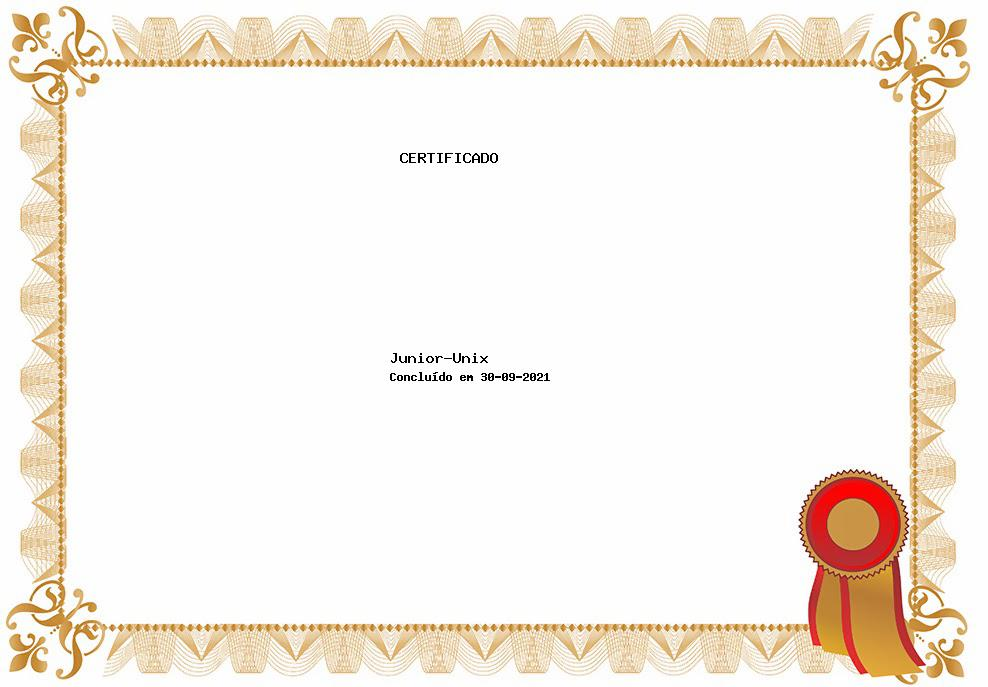
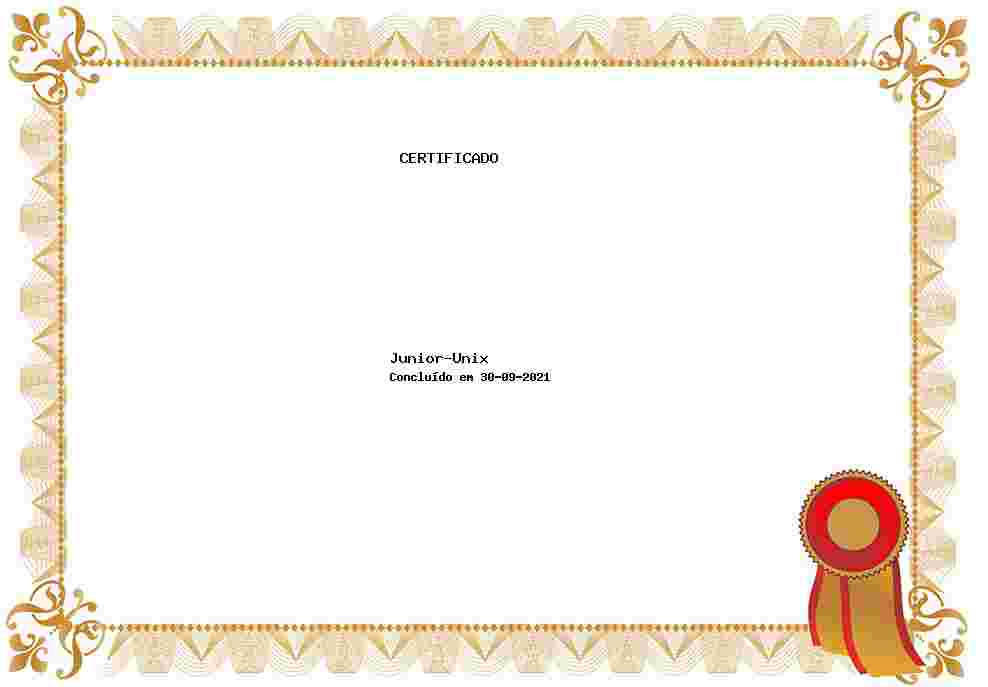
GD bibliotek, certificado, exemplo 02, diminuir qualidade.

Changed region(s): [[0.0, 0.0, 1.0, 1.0], [0.3947, 0.5197, 0.5466, 0.5808], [0.3947, 0.214, 0.5162, 0.2445]]

diff --git a/GD/exemplo-02.php b/GD/exemplo-02.php
@@ -11,7 +11,7 @@ imagestring($image, 3, 390, 370, utf8_decode("Concluído em ") . date("d-m-Y"), 
 
 header("Content-type: image/jpeg");
 imagejpeg($image); // em tela.
-imagejpeg($image, "certificado-".date("Y-m-d"). " .jpg"); //em documento.
+imagejpeg($image, "certificado-".date("Y-m-d"). " .jpg", 10); //em documento. o 10 no final, diminuiu a qualidade também.
 
 imagedestroy($image);
 ?>
